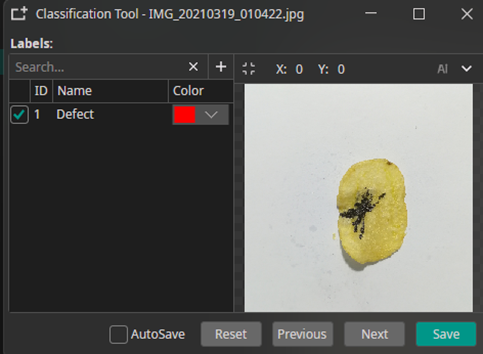
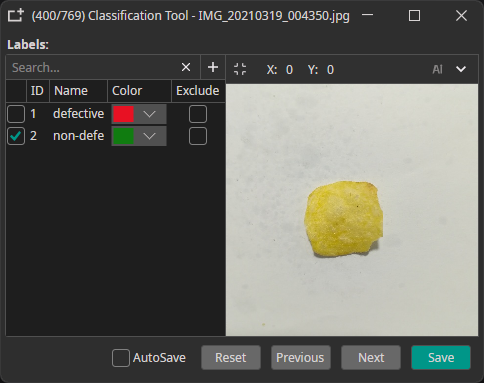
Updates images

diff --git a/docs/one-ai/01-get-started.md b/docs/one-ai/01-get-started.md
@@ -173,16 +173,16 @@ Because ONE AI only uses the validation dataset to stop the training when there 
 ### 4.4 Add Your Labels
 Open the **Labels** tab and create labels for each class you want to detect, e.g. "defect" or "strawberry". You can assign unique colors to make the annotation process faster and easier.
 
-#### The two Label Types
-- **Classification** - Assign classes to entire images.  
-  *Example:* "defect" or "no defect" for quality control  
+#### The two Label Modes
+- **Classes**: Assign classes to entire images.  
+  *Example:* "defective" or "non-defective" for quality control  
 
     <div style={{ display: 'flex', gap: '1rem', flexWrap: 'wrap' }}>
         <img src="/img/ai/one_ai_plugin/getting_started/labeled_img_1.png" alt="Labeled Image 1" style={{ width: '48%' }} />
         <img src="/img/ai/one_ai_plugin/getting_started/labeled_img_2.png" alt="Labeled Image 2" style={{ width: '48%' }} />
     </div>
-- **Object Detection** - Mark specific objects by drawing bounding boxes. It is possible to annotate multiple objects and labels per image.  
-  *Example:* individual boxes for "strawberry" or "foreign object"
+- **Objects**: Mark specific objects by drawing bounding boxes. It is possible to annotate multiple objects and labels per image.  
+  *Example:* individual boxes for "Strawberry" or "Foreign Object"
 
     <div style={{ display: 'flex', gap: '1rem', flexWrap: 'wrap' }}>
         <img src="/img/ai/one_ai_plugin/getting_started/yolo_img_1.png" alt="yolo Image 1" style={{ width: '48%' }} />
@@ -250,7 +250,7 @@ You can use the **Sharpen Filter** to increase the sharpness of the image and em
 
 #### Color Filter
 <div style={{ display: 'flex', gap: '1rem', flexWrap: 'wrap' }}>
-    <img src="/img/ai/one_ai_plugin/getting_started/color_filter_1.png" alt="Color Filter" style={{ width: '30%', transform: 'scaleX(-1)' }} />
+    <img src="/img/ai/one_ai_plugin/getting_started/color_filter_1.png" alt="Color Filter" style={{ width: '30%' }} />
     <img src="/img/ai/one_ai_plugin/getting_started/color_filter_2.png" alt="Color Filter" style={{ width: '30%' }} />
 </div>
 
